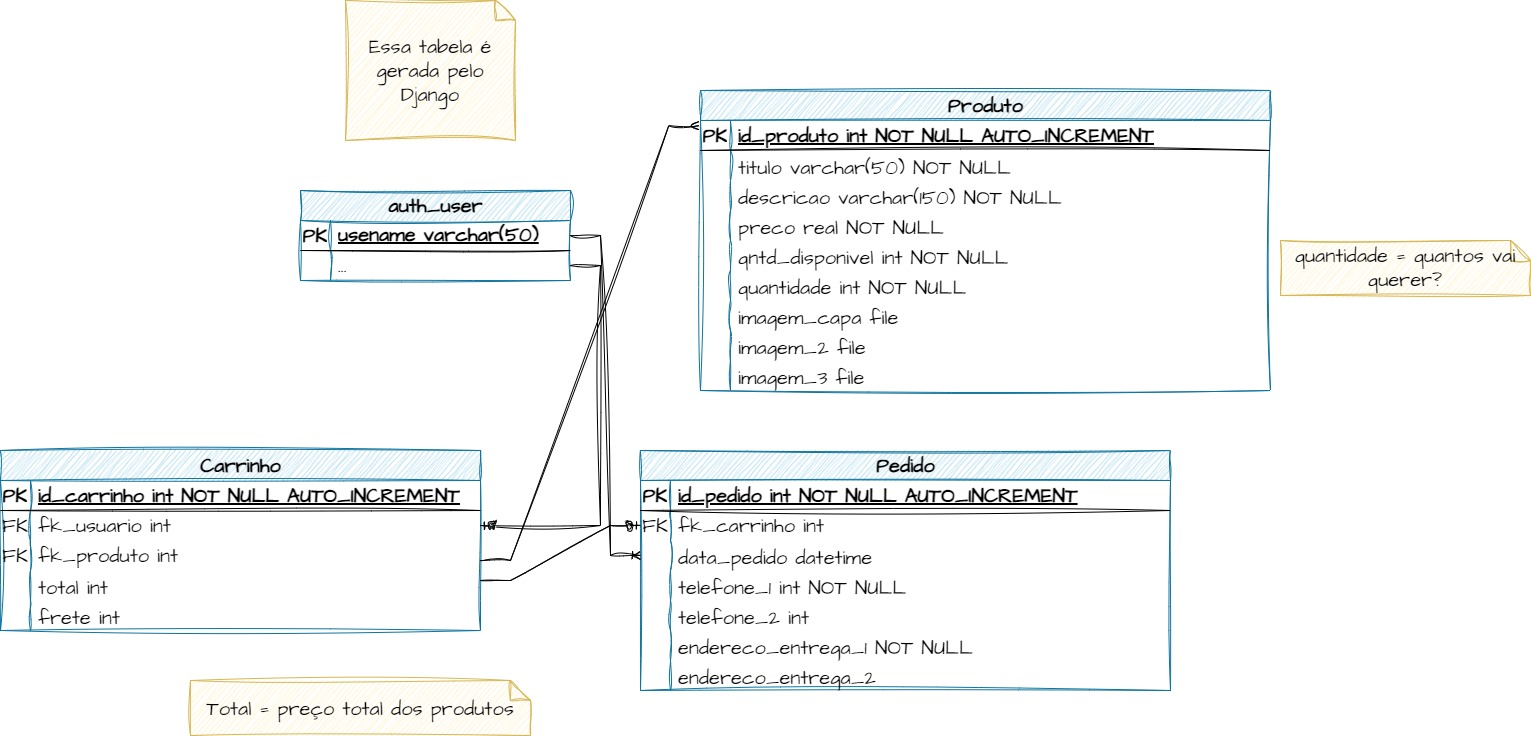
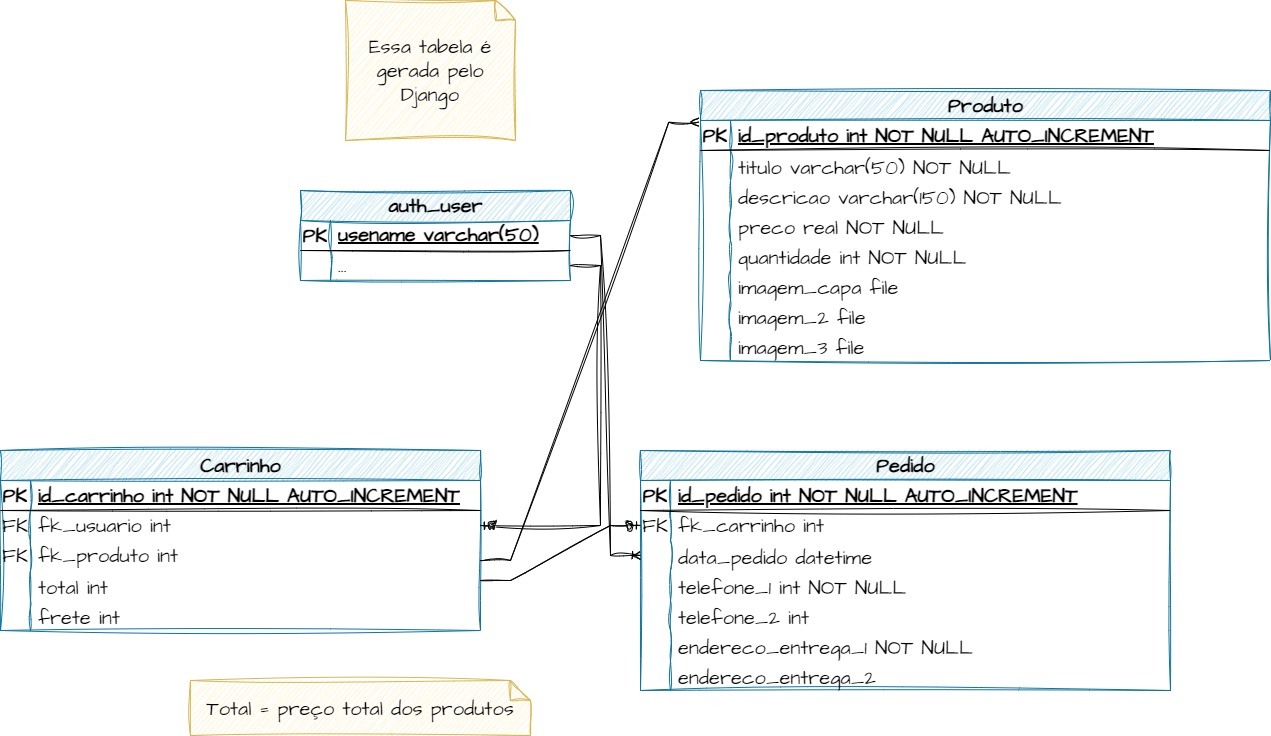
Fix

diff --git a/lojarelogios/lojarelogiosapp/templates/lojarelogiosapp/user/login.html b/lojarelogios/lojarelogiosapp/templates/lojarelogiosapp/user/login.html
@@ -12,7 +12,7 @@
                 <p class="text-danger text-center">{{ erro_msg }}</p>
                 <br />
                 <div class="mb-3">
-                    <label for="usuario" class="form-label">Email:</label>
+                    <label for="usuario" class="form-label">Usuário:</label>
                     <input name="usuario" type="text" class="fs-2 p-3 form-control" id="usuario"
                         aria-describedby="usuario">
                 </div>

diff --git a/lojarelogios/lojarelogiosapp/templates/lojarelogiosapp/user/index.html b/lojarelogios/lojarelogiosapp/templates/lojarelogiosapp/user/index.html
@@ -17,6 +17,5 @@
     <div class="d-grid gap-2 col-lg-6 col-sm-10 mx-auto my-5">
         <a href="{% url 'lojarelogiosapp:logout' %}" type="button" class="btn btn-link fs-1">Sair</a>
     </div>
-
 </div>
 {% endblock content %}

diff --git a/lojarelogios/lojarelogiosapp/migrations/0003_remove_produto_qntd_disponivel_and_more.py b/lojarelogios/lojarelogiosapp/migrations/0003_remove_produto_qntd_disponivel_and_more.py
@@ -1,0 +1,32 @@
+# Generated by Django 4.1.7 on 2023-03-24 13:41
+
+from django.db import migrations, models
+
+
+class Migration(migrations.Migration):
+
+    dependencies = [
+        ('lojarelogiosapp', '0002_alter_produto_imagem_2_alter_produto_imagem_3_and_more'),
+    ]
+
+    operations = [
+        migrations.RemoveField(
+            model_name='produto',
+            name='qntd_disponivel',
+        ),
+        migrations.AlterField(
+            model_name='produto',
+            name='imagem_2',
+            field=models.FileField(null=True, upload_to='lojarelogiosapp/static/lojarelogiosapp/uploads/'),
+        ),
+        migrations.AlterField(
+            model_name='produto',
+            name='imagem_3',
+            field=models.FileField(null=True, upload_to='lojarelogiosapp/static/lojarelogiosapp/uploads/'),
+        ),
+        migrations.AlterField(
+            model_name='produto',
+            name='imagem_capa',
+            field=models.FileField(null=True, upload_to='lojarelogiosapp/static/lojarelogiosapp/uploads/'),
+        ),
+    ]

diff --git a/lojarelogios/lojarelogiosapp/models.py b/lojarelogios/lojarelogiosapp/models.py
@@ -6,7 +6,6 @@ class Produto(models.Model):
     titulo = models.CharField(max_length=50)
     descricao = models.CharField(max_length=150)
     preco = models.FloatField(default=0.00)
-    qntd_disponivel = models.IntegerField(default=0)
     quantidade = models.IntegerField(default=1)
 
     # Imagens

diff --git a/lojarelogios/lojarelogiosapp/views.py b/lojarelogios/lojarelogiosapp/views.py
@@ -1,4 +1,4 @@
-from datetime import timezone
+from django.utils import timezone
 from django.db import IntegrityError
 from django.shortcuts import redirect, render
 from django.urls import reverse
